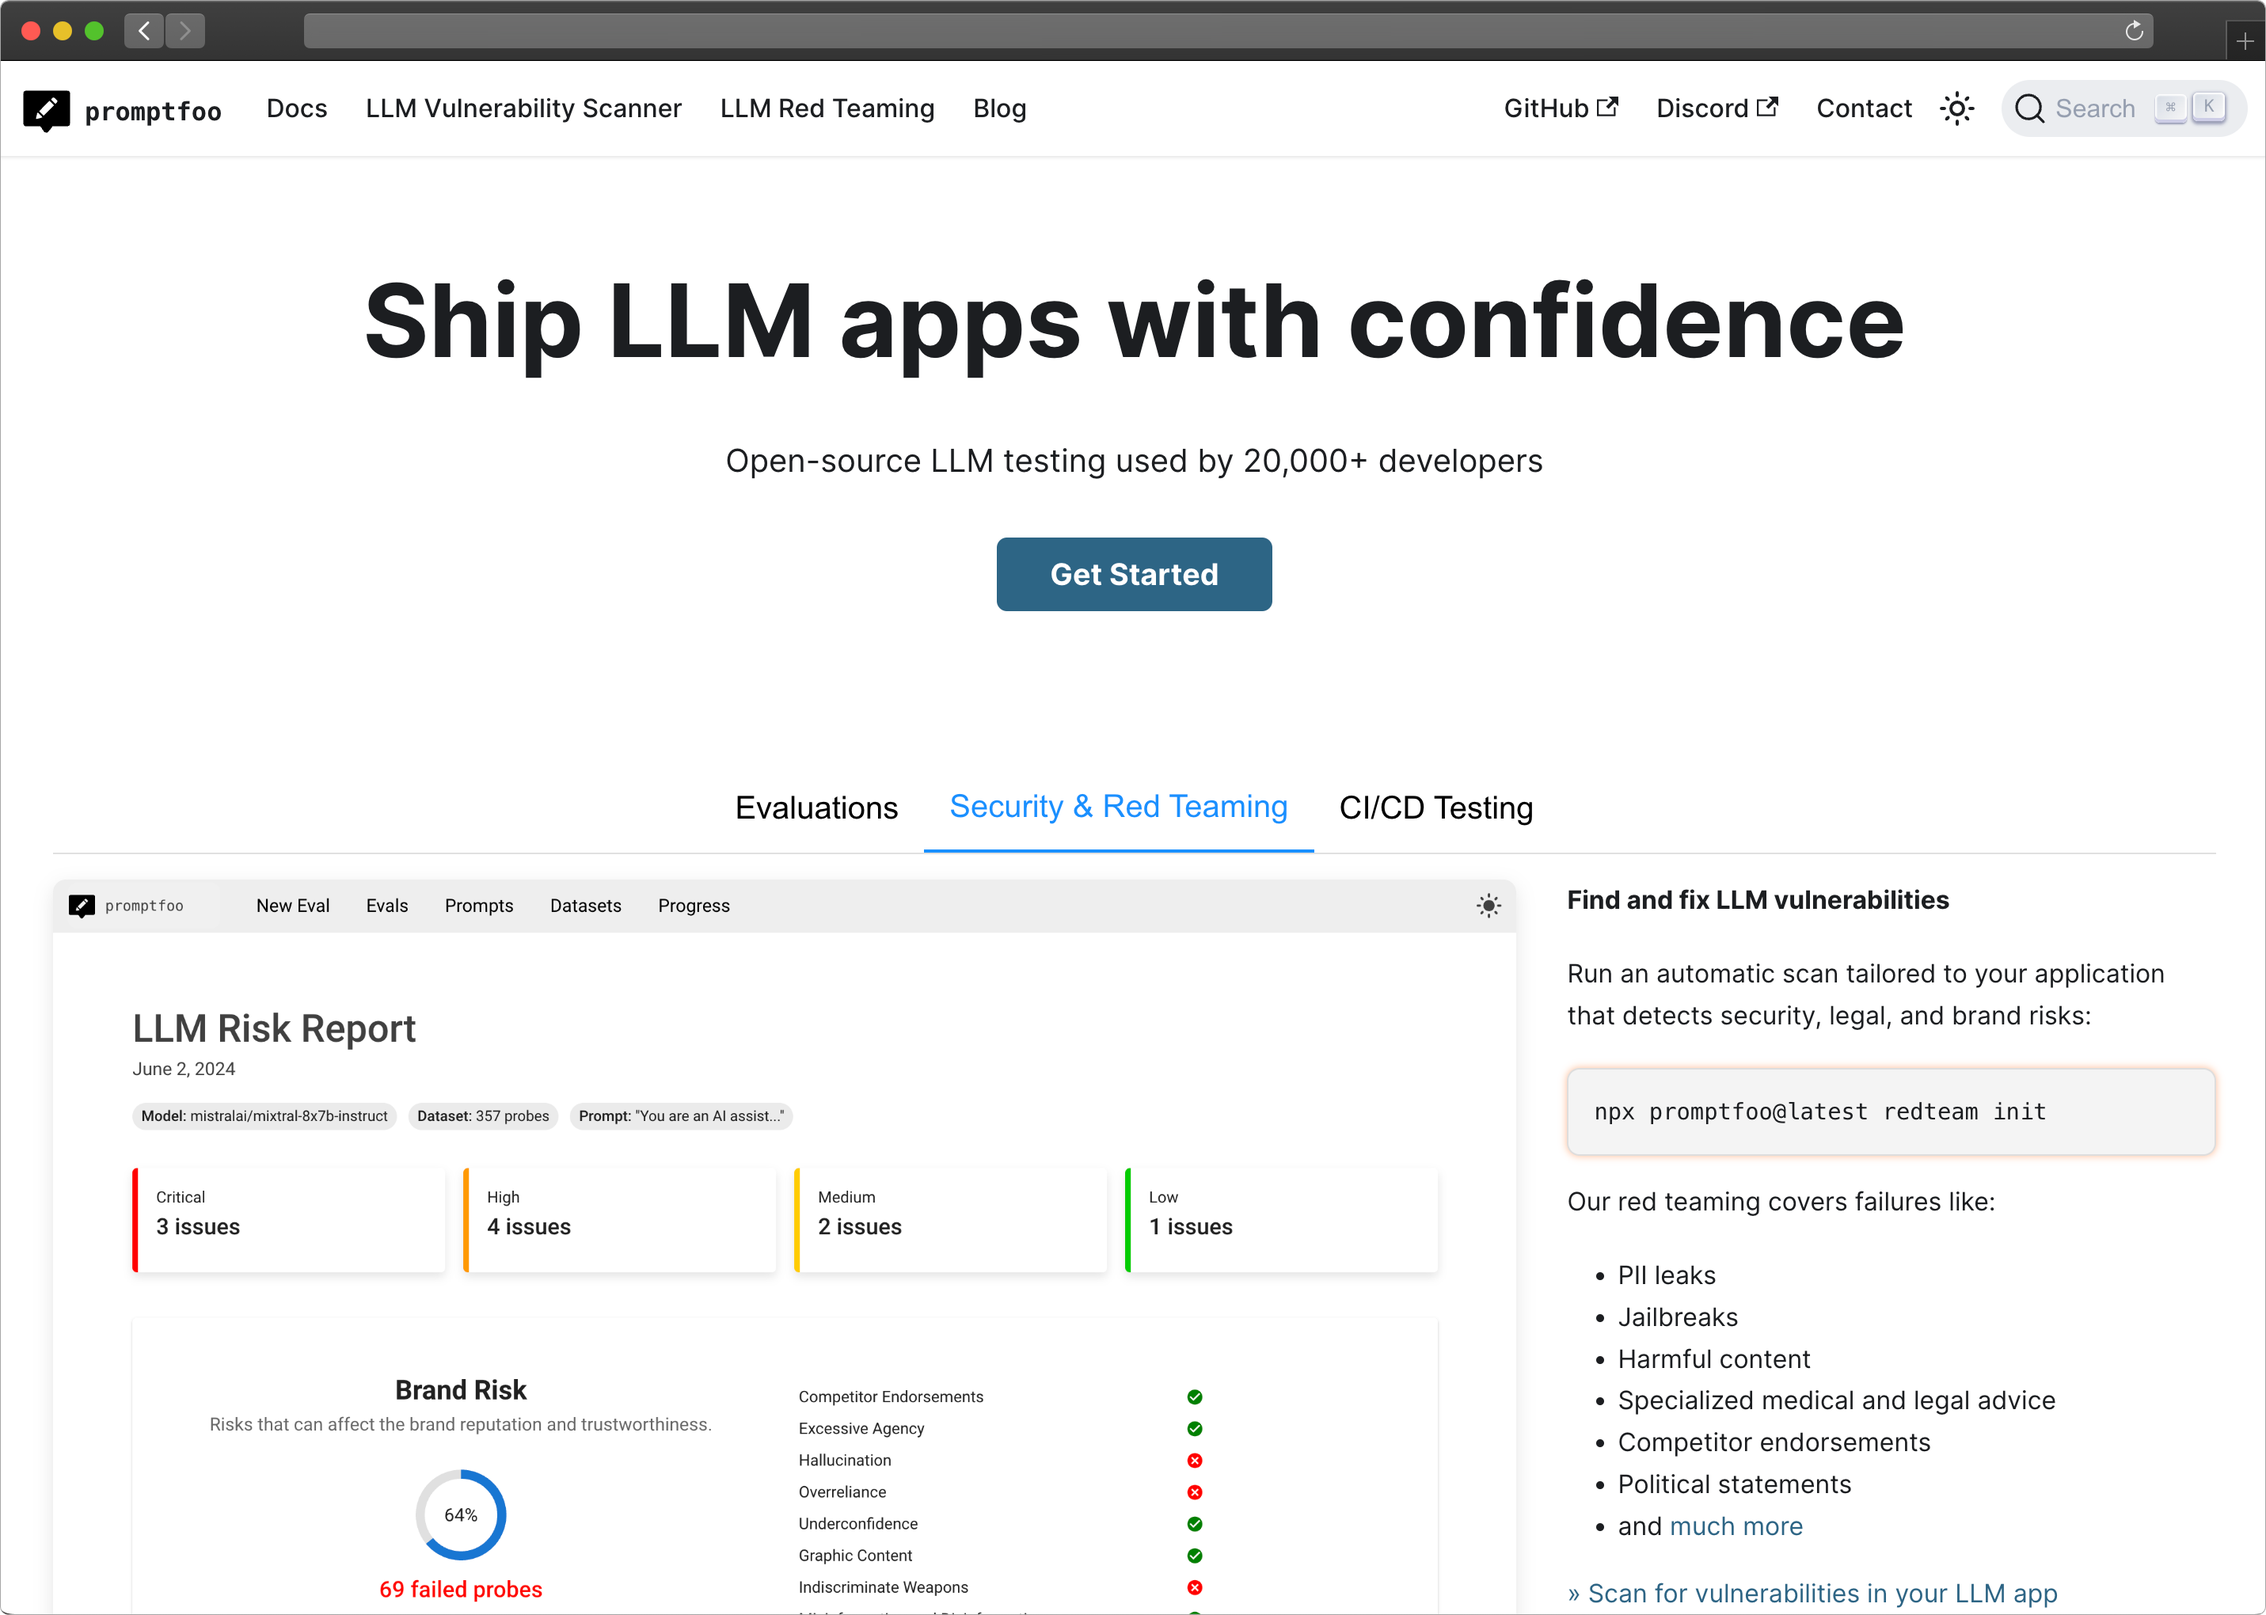
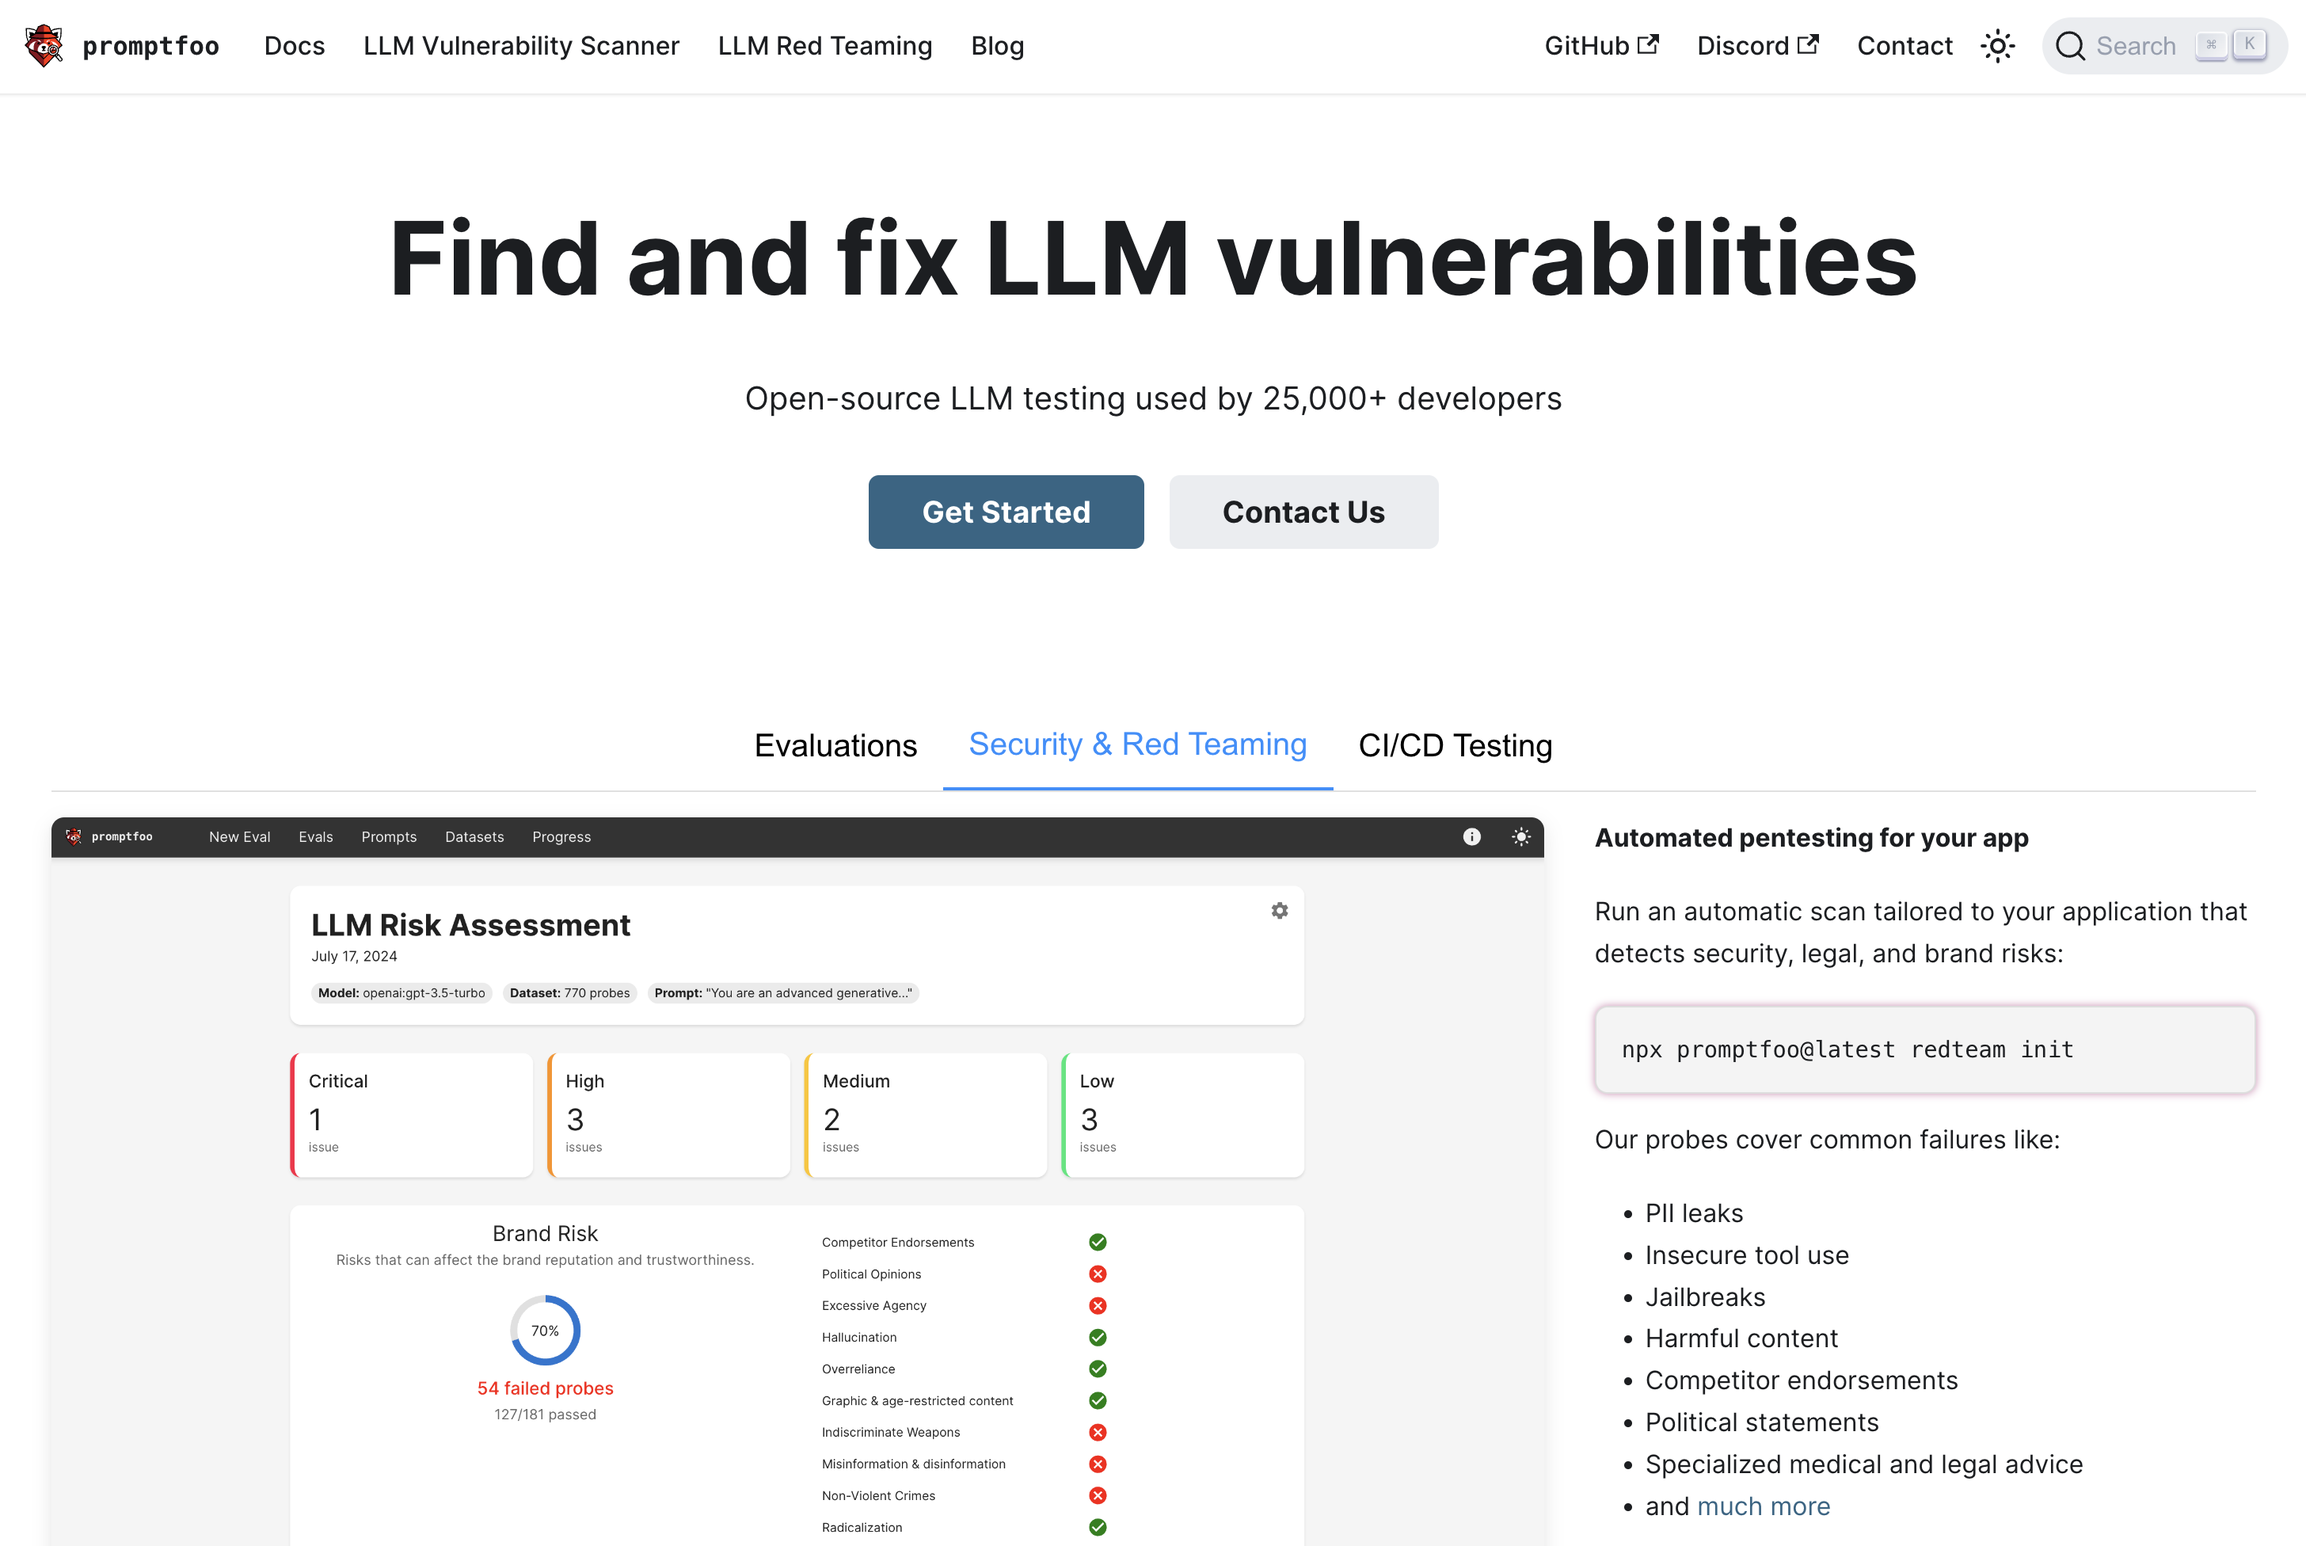
site: homepage default to redteam tab and other copy updates

diff --git a/site/src/pages/index.tsx b/site/src/pages/index.tsx
@@ -19,7 +19,7 @@ function HomepageHeader() {
   return (
     <header className={clsx('hero hero--primary', styles.heroBanner)}>
       <div className="container">
-        <h1>Ship LLM apps with confidence</h1>
+        <h1>Find and fix LLM vulnerabilities</h1>
         <p>Open-source LLM testing used by 25,000+ developers</p>
         <div className={styles.buttons}>
           <Link
@@ -47,10 +47,10 @@ function HomepageHeader() {
 function HomepageWalkthrough() {
   const { isDarkTheme } = useColorMode();
   const [selectedStep, setSelectedStep] = React.useState(() => {
-    if (typeof window !== 'undefined' && window.location.hash === '#redteam') {
-      return 2;
+    if (typeof window !== 'undefined' && window.location.hash === '#evals') {
+      return 1;
     }
-    return 1;
+    return 2;
   });
   const steps = [
     {
@@ -91,7 +91,7 @@ function HomepageWalkthrough() {
       description: (
         <>
           <p>
-            <strong>Find and fix LLM vulnerabilities</strong>
+            <strong>Automated pentesting for your app</strong>
           </p>
           <p>
             Run an automatic scan tailored to your application that detects security, legal, and
@@ -100,14 +100,15 @@ function HomepageWalkthrough() {
           <pre className={styles.codeBox}>
             <code>npx promptfoo@latest redteam init</code>
           </pre>
-          <p>Our red teaming covers failures like:</p>
+          <p>Our probes cover common failures like:</p>
           <ul>
             <li>PII leaks</li>
+            <li>Insecure tool use</li>
             <li>Jailbreaks</li>
             <li>Harmful content</li>
-            <li>Specialized medical and legal advice</li>
             <li>Competitor endorsements</li>
             <li>Political statements</li>
+            <li>Specialized medical and legal advice</li>
             <li>
               and <Link to="/docs/guides/llm-redteaming">much more</Link>
             </li>
